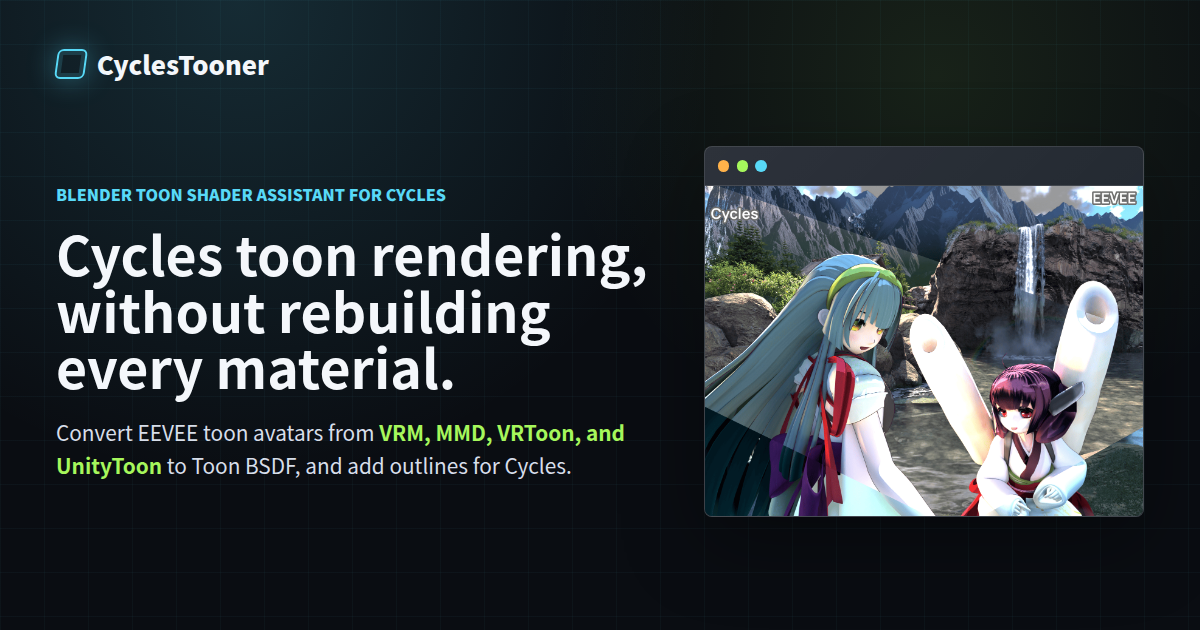
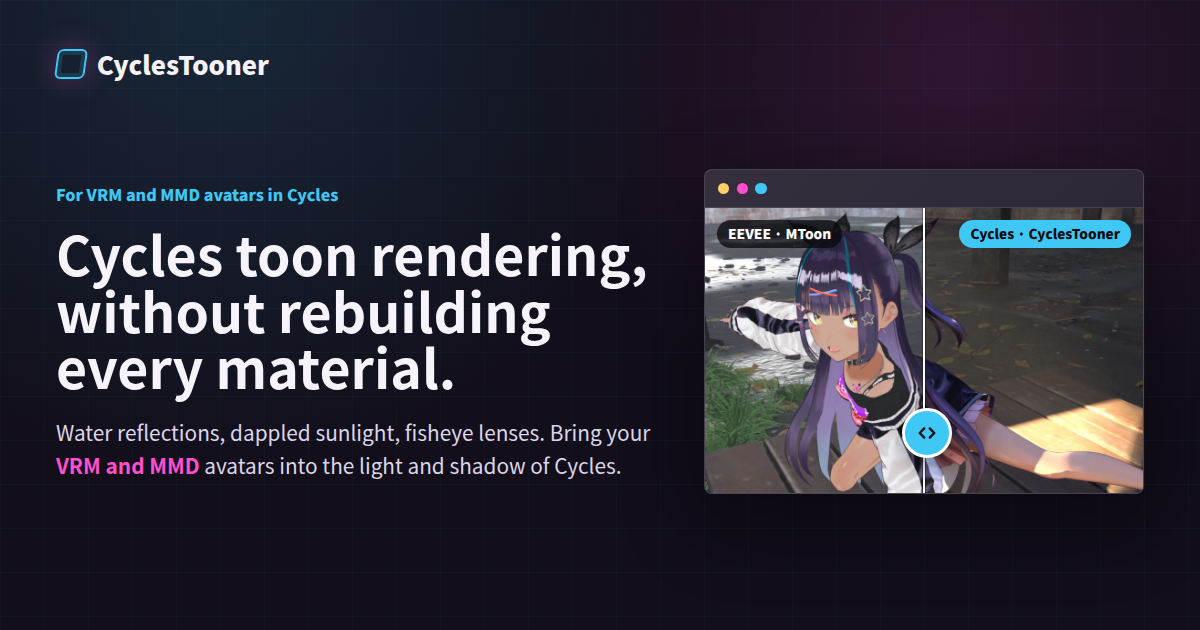
Rebuild the link previews and tune the hero size
Regenerate the Open Graph images from the new hero copy and a still of
the comparison slider, and drop the old hero screenshot. Shrink the
English hero heading, cap the hero height on very tall displays, and
credit the warehouse scene used in the hero images.

Changed region(s): [[0.5858, 0.2111, 0.9558, 0.8444], [0.0308, 0.6635, 0.555, 0.754], [0.0308, 0.3016, 0.37, 0.3317]]

diff --git a/.github/og-image/og.html b/.github/og-image/og.html
@@ -75,19 +75,20 @@
     }
 
     .og-lede strong {
-      color: var(--lime);
+      color: var(--magenta);
     }
 
     .og .viewport-frame {
       min-height: 0;
     }
 
-    .og .viewport-frame img {
-      display: block;
-      width: 100%;
-      height: 330px;
-      object-fit: cover;
-      object-position: center top;
+    /* A still of the hero slider at its initial 50% position. */
+    .og .ba-hint {
+      display: none;
+    }
+
+    .og .ba-label {
+      font-size: 0.85rem;
     }
   </style>
 </head>
@@ -99,15 +100,21 @@
     </div>
     <div class="og-body">
       <div>
-        <p class="eyebrow" data-en="Blender toon shader assistant for Cycles" data-ja="BlenderのCycles向けトゥーンシェーダー補助アドオン"></p>
+        <p class="eyebrow" data-en="For VRM and MMD avatars in Cycles" data-ja="VRM・MMDのアバターを、Cyclesで"></p>
         <h1 data-en="&lt;span&gt;Cycles toon rendering,&lt;/span&gt;&lt;span&gt;without rebuilding&lt;/span&gt;&lt;span&gt;every material.&lt;/span&gt;" data-ja="&lt;span&gt;マテリアルを作り直さず、&lt;/span&gt;&lt;span&gt;Cyclesでトゥーン表現へ。&lt;/span&gt;"></h1>
-        <p class="og-lede" data-en="Convert EEVEE toon avatars from &lt;strong&gt;VRM, MMD, VRToon, and UnityToon&lt;/strong&gt; to Toon BSDF, and add outlines for Cycles." data-ja="&lt;strong&gt;VRM・MMD・VRToon・UnityToon&lt;/strong&gt;の&lt;wbr&gt;EEVEE向けトゥーンアバターを&lt;wbr&gt;Toon BSDFへ変換し、&lt;wbr&gt;Cycles向けのアウトラインも生成。"></p>
+        <p class="og-lede" data-en="Water reflections, dappled sunlight, fisheye lenses. Bring your &lt;strong&gt;VRM and MMD&lt;/strong&gt; avatars into the light and shadow of Cycles." data-ja="水面の反射も、&lt;wbr&gt;木漏れ日も、&lt;wbr&gt;魚眼レンズも。&lt;wbr&gt;&lt;strong&gt;VRMやMMD&lt;/strong&gt;のアバターを、&lt;wbr&gt;Cyclesの光と影の中へ。"></p>
       </div>
       <div class="viewport-frame">
         <div class="viewport-toolbar">
           <span></span><span></span><span></span>
         </div>
-        <img src="../pages/assets/material-converter.png" alt="">
+        <div class="ba" style="--pos: 50%">
+          <img class="ba-before" src="../pages/assets/hero-eevee.webp" alt="">
+          <img class="ba-after" src="../pages/assets/hero-cycles.webp" alt="">
+          <span class="ba-label ba-label-before">EEVEE · MToon</span>
+          <span class="ba-label ba-label-after">Cycles · CyclesTooner</span>
+          <span class="ba-handle"></span>
+        </div>
       </div>
     </div>
   </div>
@@ -116,6 +123,10 @@
     document.documentElement.lang = lang;
     for (const element of document.querySelectorAll("[data-en]")) {
       element.innerHTML = element.dataset[lang];
+    }
+    if (lang === "ja") {
+      document.querySelector(".ba-label-before").textContent = "EEVEE・MToon";
+      document.querySelector(".ba-label-after").textContent = "Cycles・CyclesTooner";
     }
   </script>
 </body>

diff --git a/.github/pages/ja/index.html b/.github/pages/ja/index.html
@@ -390,6 +390,7 @@
       <ul>
         <li><span>キャラクターモデル（ヒーロー画像）:</span> VRoid <a href="https://hub.vroid.com/characters/7939147878897061040/models/2292219474373673889" target="_blank" rel="noopener noreferrer">AvatarSample_B</a>。</li>
         <li><span>キャラクターモデル（その他の紹介画像）:</span> 東北ずん子、東北きりたん、ずんだもん / <a href="https://zunko.jp/con_illust.html" target="_blank" rel="noopener noreferrer">ずんずんPJイラスト・3Dデータ</a>。</li>
+        <li><span>シーン素材（ヒーロー画像）:</span> BlendKit <a href="https://www.blendkit.com/asset-gallery-detail/9cb181dc-d05a-42c0-880c-5949918ce392/" target="_blank" rel="noopener noreferrer">Forgotten Industrial Warehouse</a>。</li>
         <li><span>シーン素材:</span> BlendKit <a href="https://www.blendkit.com/asset-gallery-detail/93521daa-0e2b-4f97-b959-feb7bc019ba5/" target="_blank" rel="noopener noreferrer">Lakeside Cabin in the Mountains</a>。</li>
         <li><span>シーン素材:</span> BlendKit <a href="https://www.blendkit.com/asset-gallery-detail/f87cf4ab-eb35-4e06-b4ce-f8dd0f4a4ac3/" target="_blank" rel="noopener noreferrer">Wooden Plank Pathway</a>。</li>
         <li><span>シーン素材:</span> BlendKit <a href="https://www.blendkit.com/asset-gallery-detail/bda016a4-4f01-4b1c-aa8f-95e9dd09c607/" target="_blank" rel="noopener noreferrer">Stairs</a>。</li>

diff --git a/.github/pages/index.html b/.github/pages/index.html
@@ -394,6 +394,7 @@
       <ul>
         <li><span>Character model (hero image):</span> <a href="https://hub.vroid.com/characters/7939147878897061040/models/2292219474373673889" target="_blank" rel="noopener noreferrer">AvatarSample_B</a> from VRoid.</li>
         <li><span>Character models (other showcase images):</span> Tohoku Zunko, Tohoku Kiritan, and Zundamon from <a href="https://zunko.jp/con_illust.html" target="_blank" rel="noopener noreferrer">ZunZun Project illustration / 3D data</a>.</li>
+        <li><span>Scene asset (hero image):</span> <a href="https://www.blendkit.com/asset-gallery-detail/9cb181dc-d05a-42c0-880c-5949918ce392/" target="_blank" rel="noopener noreferrer">Forgotten Industrial Warehouse</a> from BlendKit.</li>
         <li><span>Scene asset:</span> <a href="https://www.blendkit.com/asset-gallery-detail/93521daa-0e2b-4f97-b959-feb7bc019ba5/" target="_blank" rel="noopener noreferrer">Lakeside Cabin in the Mountains</a> from BlendKit.</li>
         <li><span>Scene asset:</span> <a href="https://www.blendkit.com/asset-gallery-detail/f87cf4ab-eb35-4e06-b4ce-f8dd0f4a4ac3/" target="_blank" rel="noopener noreferrer">Wooden Plank Pathway</a> from BlendKit.</li>
         <li><span>Scene asset:</span> <a href="https://www.blendkit.com/asset-gallery-detail/bda016a4-4f01-4b1c-aa8f-95e9dd09c607/" target="_blank" rel="noopener noreferrer">Stairs</a> from BlendKit.</li>

diff --git a/.github/pages/assets/site.css b/.github/pages/assets/site.css
@@ -115,7 +115,8 @@ a {
   grid-template-columns: minmax(0, 1.02fr) minmax(320px, 0.98fr);
   gap: clamp(2rem, 5vw, 4rem);
   align-items: center;
-  min-height: calc(100svh - 70px);
+  /* Fill the first screen, but stop growing on very tall displays. */
+  min-height: min(calc(100svh - 70px), 920px);
   padding: clamp(3rem, 8vw, 6rem) 0 3rem;
 }
 
@@ -165,6 +166,11 @@ h3 {
   overflow-wrap: normal;
   text-wrap: balance;
   word-break: auto-phrase;
+}
+
+.hero h1 {
+  font-size: clamp(2.4rem, 3.8vw, 4rem);
+  line-height: 1;
 }
 
 :lang(ja) .hero h1 {

diff --git a/.github/og-image/README.md b/.github/og-image/README.md
@@ -5,7 +5,7 @@
 - `.github/pages/assets/og-image-en.png` (English page)
 - `.github/pages/assets/og-image-ja.png` (Japanese page)
 
-It reuses `.github/pages/assets/site.css` and the hero image, so update the images whenever the landing-page heading, tagline, or hero image changes. Keep the English and Japanese images equivalent.
+It reuses `.github/pages/assets/site.css` and the two hero slider images (`hero-eevee.webp` and `hero-cycles.webp`), so update the images whenever the landing-page heading, tagline, or hero images change. Keep the English and Japanese images equivalent.
 
 Regenerate both images at 1200 × 630 from the repository root:
 
